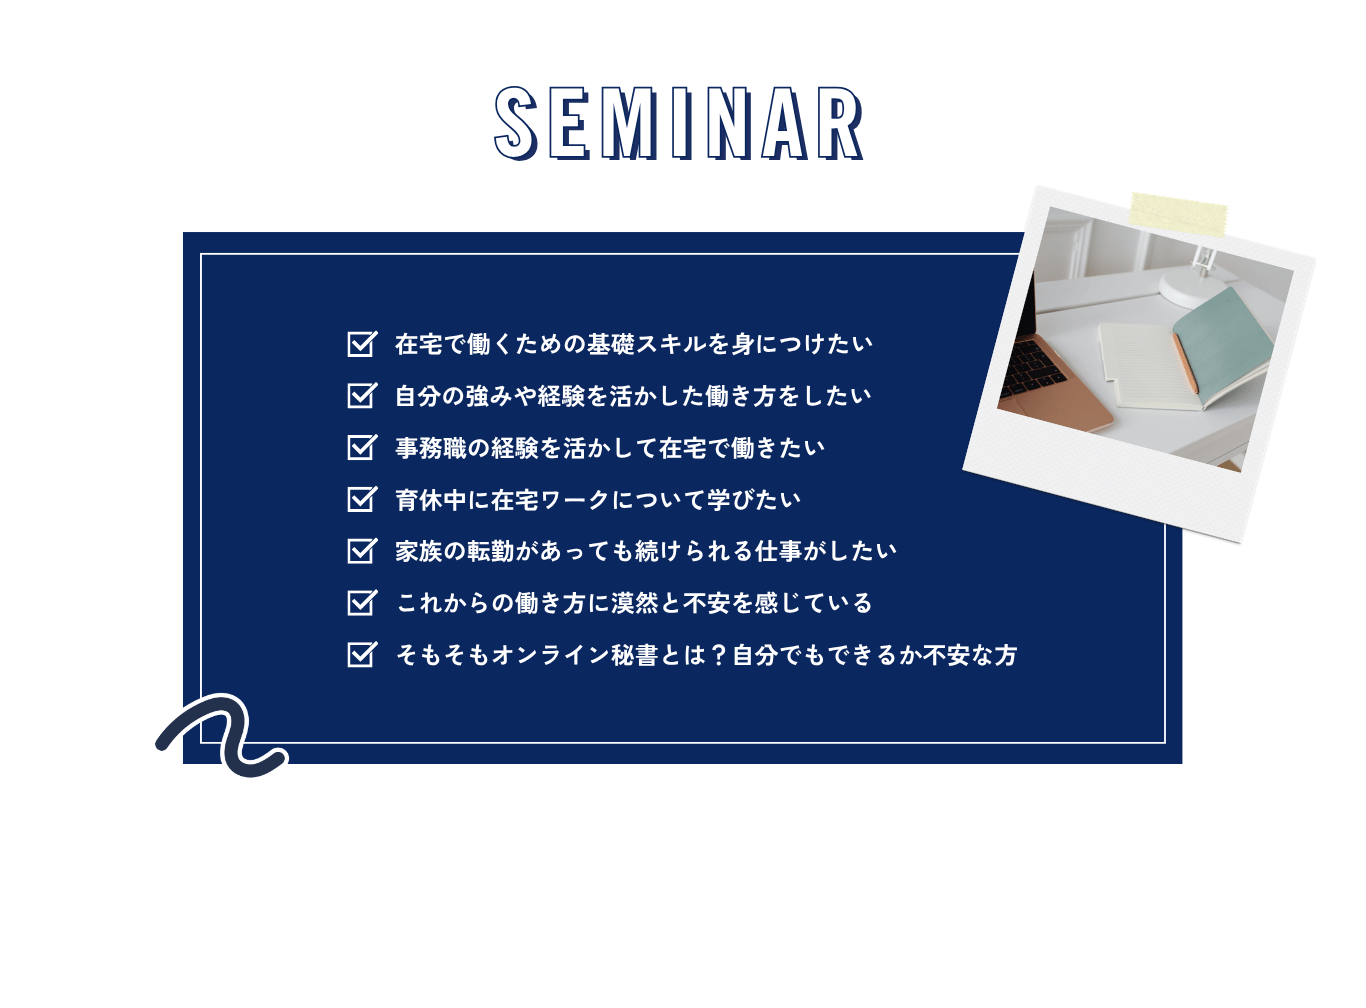
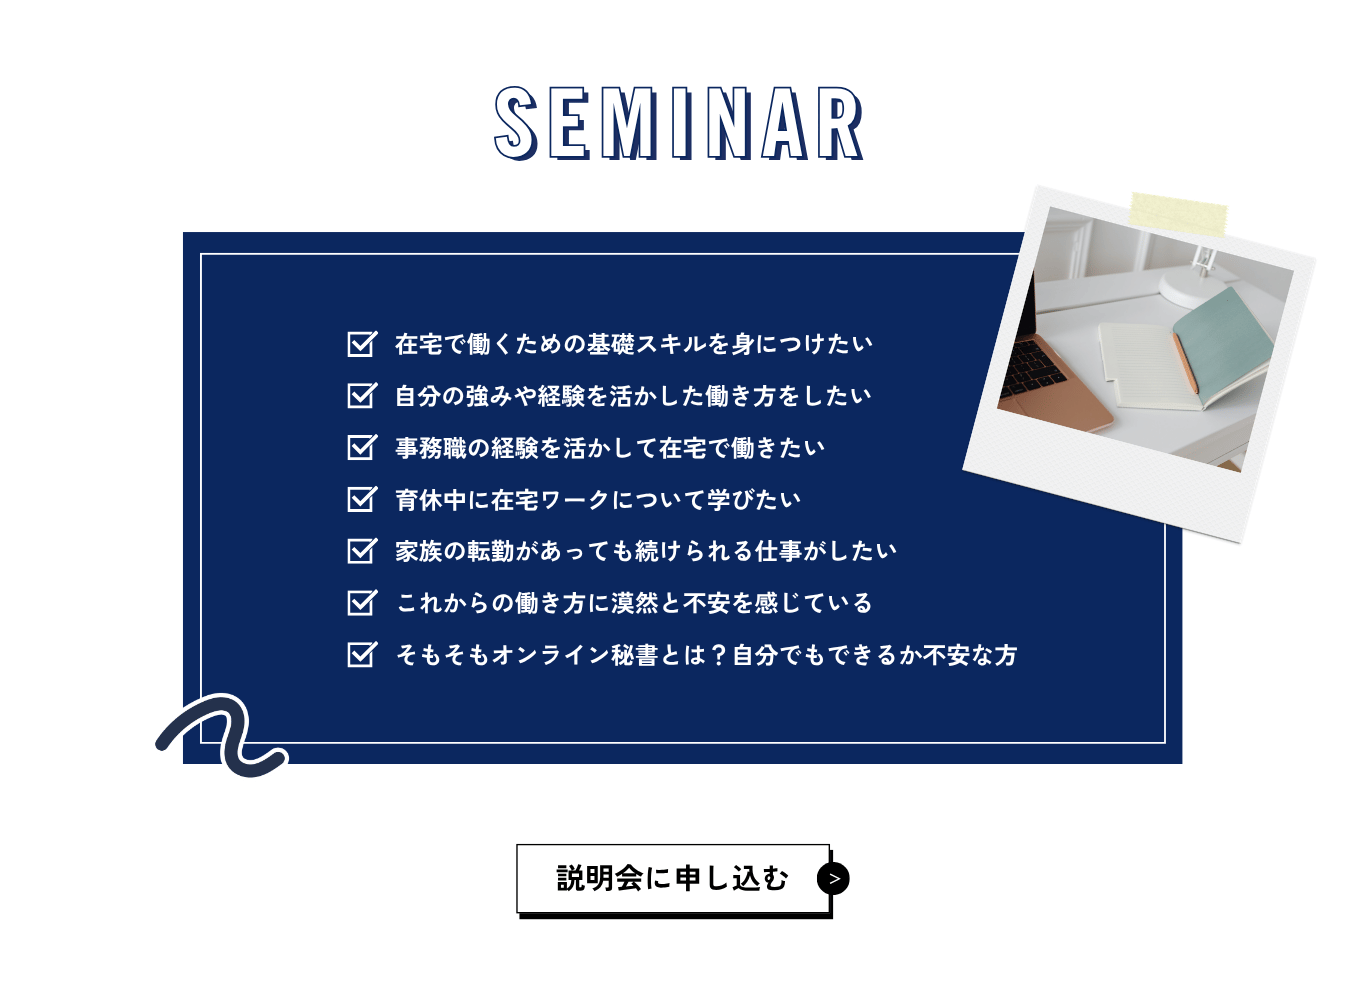
Update: swap seminar image, add apply button, add Instagram link

Changed region(s): [[0.369, 0.8304, 0.6457, 0.9226]]

diff --git a/index.html b/index.html
@@ -238,6 +238,15 @@
   <img src="11.png" alt="秘書を依頼したい方へ" />
 </div>
 
+<!-- 申し込みボタン -->
+<div style="text-align:center; padding: 48px 20px;">
+  <a href="https://form.lmes.jp/landing-qr/2004615292-74MqnDQJ?uLand=pfWIgV"
+     target="_blank"
+     style="display:inline-block; background:#1a3560; color:#fff; font-size:18px; font-weight:700; letter-spacing:1px; padding:18px 60px; border-radius:50px; text-decoration:none; box-shadow:0 4px 16px rgba(26,53,96,.3);">
+    お申し込みはこちら
+  </a>
+</div>
+
 <hr class="section-divider" />
 
 <!-- ===== 特定商取引法に基づく表記 ===== -->
@@ -491,8 +500,13 @@
 </div>
 
 <!-- 12: Footer -->
-<div class="img-section">
+<div class="img-section" style="position:relative;">
   <img src="12.png" alt="BRIGHT. フッター" />
+  <!-- Instagramアイコンの上にリンクを重ねる -->
+  <a href="https://www.instagram.com/akko_bright/"
+     target="_blank"
+     aria-label="Instagram"
+     style="position:absolute; left:50%; top:42%; transform:translate(-50%,-50%); width:60px; height:60px; border-radius:50%; display:block;"></a>
 </div>
 
 </body>